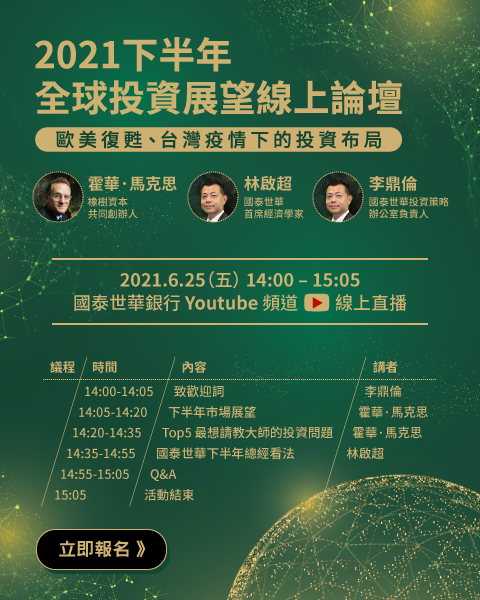
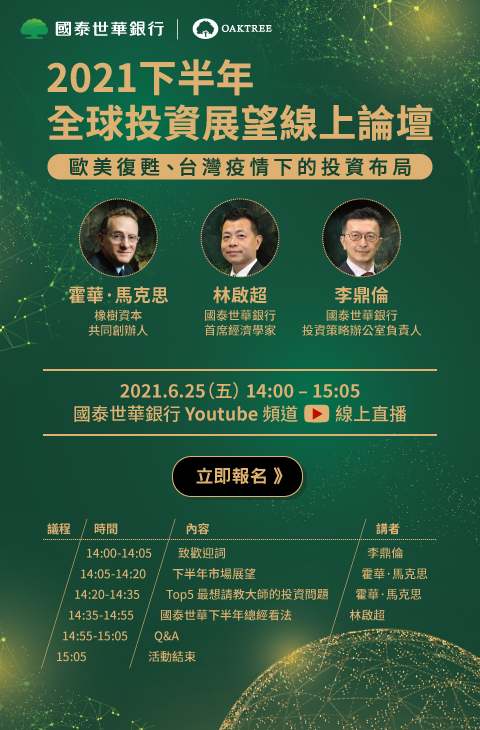
update

diff --git a/Cathay-forum-The second half of 2021/index.html b/Cathay-forum-The second half of 2021/index.html
@@ -178,7 +178,7 @@ font-family:'Microsoft JhengHei',Arial,'微軟正黑體', sans-serif;
               <![endif]-->
               <table border="0" cellpadding="0" cellspacing="0" style="width: 100%;background:#b0b6bd;float:left;text-align:center;height:auto;">
                <tr bgcolor="#FFFFFF">
-      <td height="" align="center" style="color:#FFF; font-size:36px;"><img src="images/EDM-A.jpg" alt="2021下半年 全球投資展望線上論壇" width="480" height="600" usemap="#Map" border="0"/></td>
+      <td height="" align="center" style="color:#FFF; font-size:36px;"><img src="images/EDM-A.jpg" alt="2021下半年 全球投資展望線上論壇" width="480" height="730" usemap="#Map" border="0"/></td>
     </tr>
               </table>
               <!--[if mso]>
@@ -368,7 +368,7 @@ font-family:'Microsoft JhengHei',Arial,'微軟正黑體', sans-serif;
 </center>
 
 <map name="Map">
-  <area shape="rect" coords="35,528,169,571" href="https://survey.cathaybk.com.tw/s/V18xn" target="_blank" alt="2021下半年 全球投資展望線上論壇 立即報名">
+  <area shape="rect" coords="166,449,309,503" href="https://survey.cathaybk.com.tw/s/V18xn" target="_blank" alt="2021下半年 全球投資展望線上論壇 立即報名">
 </map>
 </body>
 
